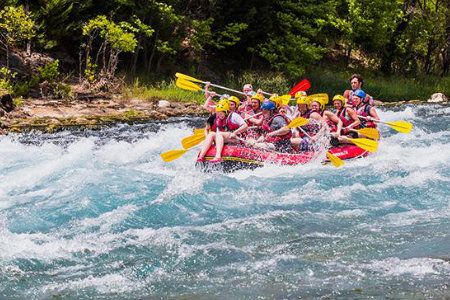
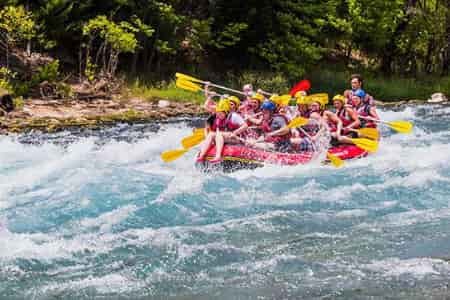
Update to image sizes for less quality

diff --git a/wwr/index.html b/wwr/index.html
@@ -3,7 +3,7 @@
 <head>
     <meta charset="UTF-8">
     <meta name="viewport" content="width=device-width, initial-scale=1.0">
-    <meta name="description" content="A quick advertisement for our wight water rapids company and a little about what we can do for you.">
+    <meta name="description" content="A quick advertisement for our white water rapids company and a little about what we can do for you.">
     <meta name="author" content="Giovaughni Padilla">
     <title>Home - White Water Rapids Co.</title>
     <link rel="preconnect" href="https://fonts.googleapis.com">
